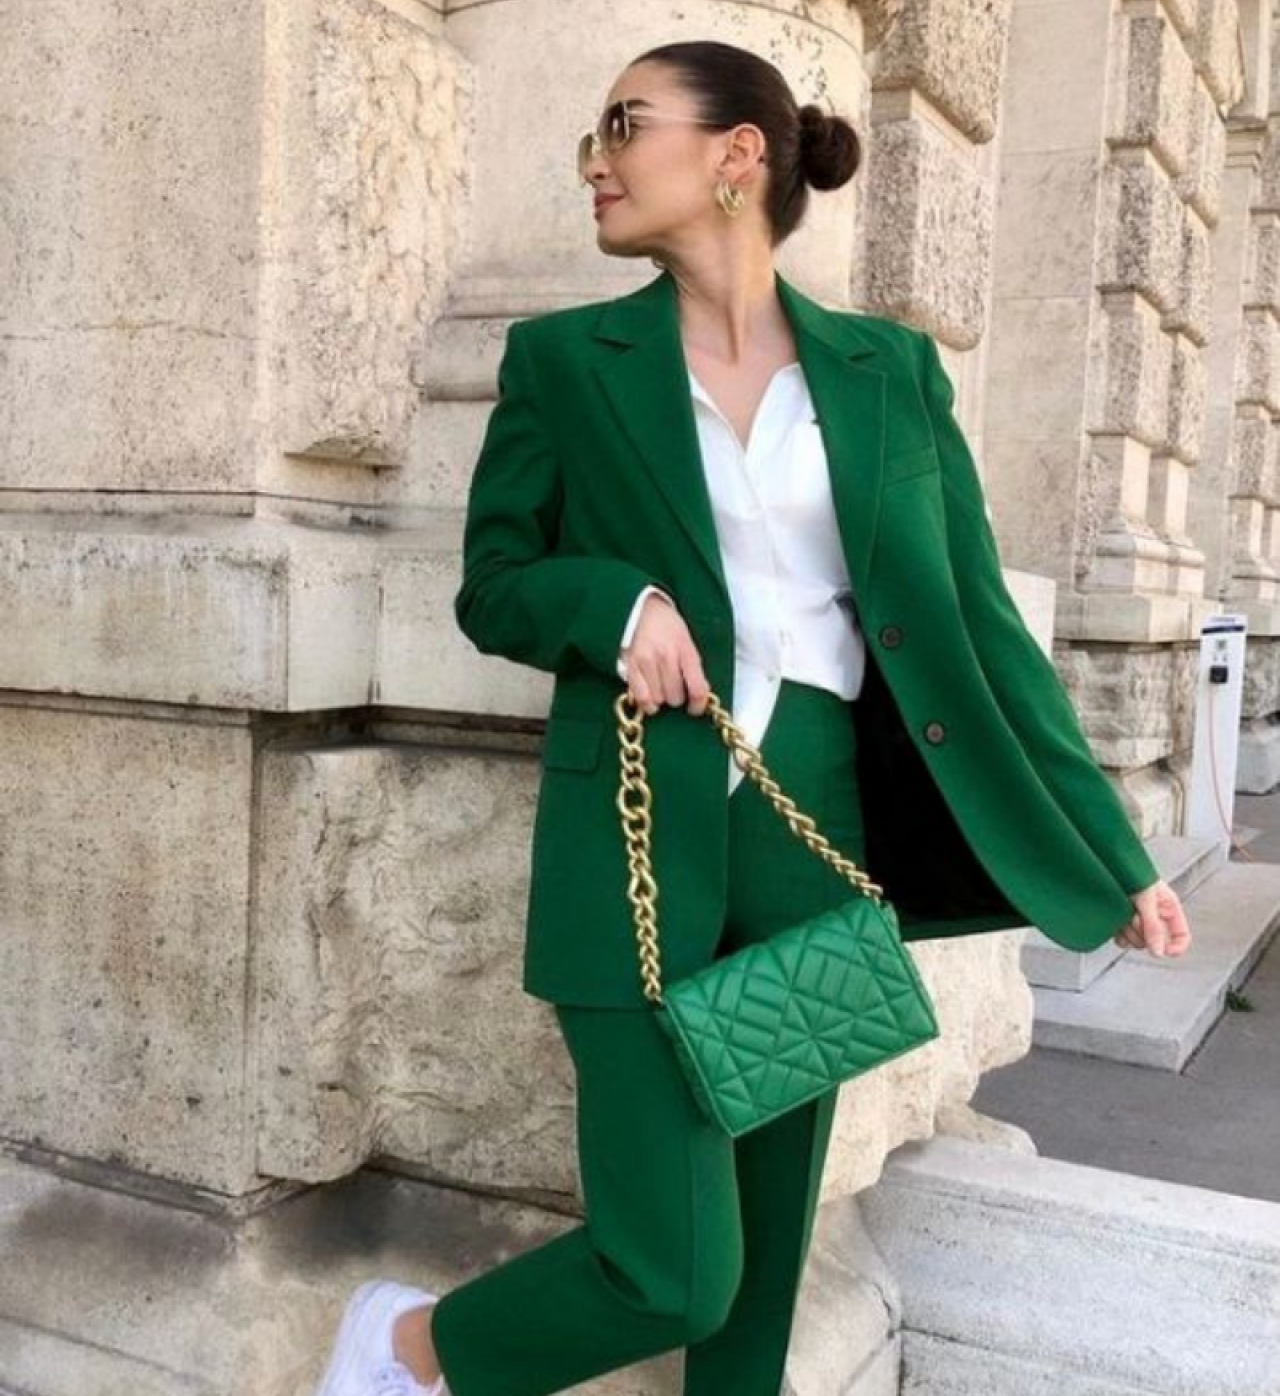
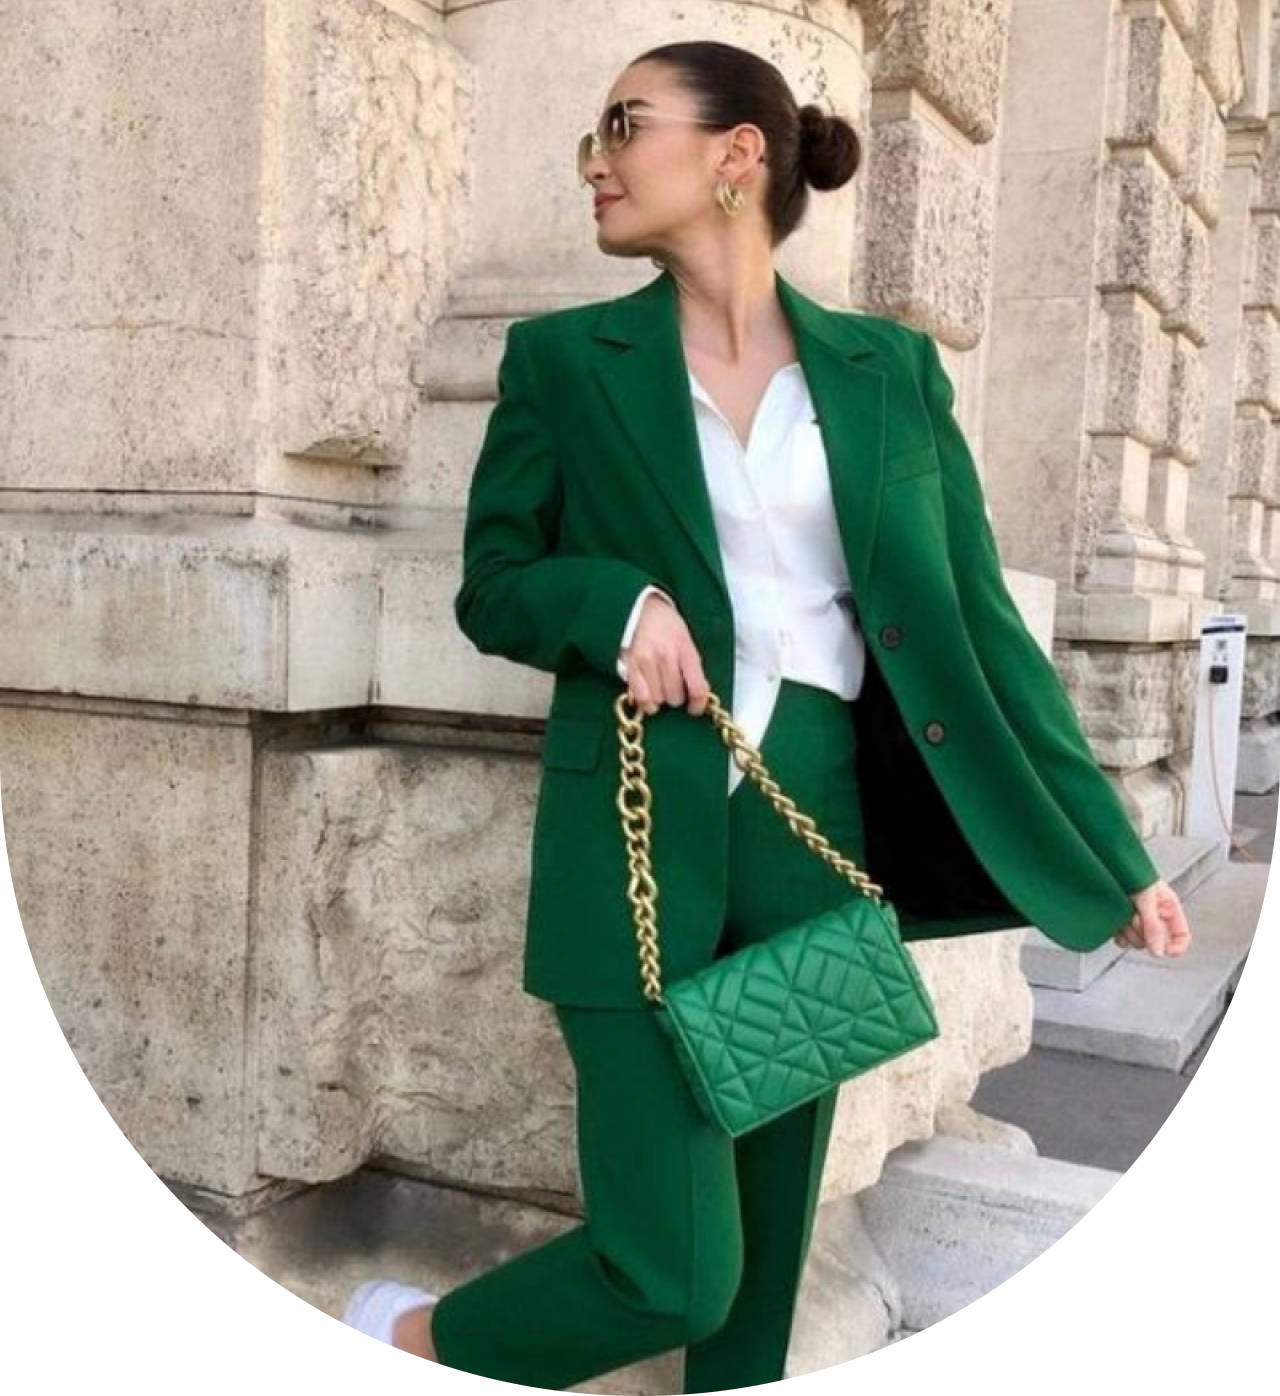
page ouverture

Changed region(s): [[0.5312, 0.5852, 1.0, 1.0], [0.0, 0.5852, 0.4688, 1.0]]

diff --git a/page-ouverture.css b/page-ouverture.css
@@ -1,8 +1,88 @@
 @import url('https://fonts.googleapis.com/css2?family=Prompt:wght@300;400&display=swap');
 
+/* STYLE BUTTON PRIMARY */
+
+.button {
+    display: flex;
+    border-radius: 40px;
+    padding: 3px 10px 3px 10px;
+    border-style: none;
+    background-color: var(--main-color);
+    color: var(--main-text-color);
+    width: fit-content;
+    padding-top: 5px;
+    padding-bottom: 5px;
+}
+
+.button:active {
+    background-color: var(--clicked-color);
+    color: var(--clicked-text-color);
+}
+
+/* STYLE BUTTON SECONDARY */
+
+.button2 {
+    display: flex;
+    border-radius: 40px;
+    padding: 3px 10px 3px 10px;
+    border-style: none;
+    background-color: var(--main-text-color);
+    color: var(--clicked-text-color);
+    width: fit-content;
+    padding-top: 5px;
+    padding-bottom: 5px;
+}
+
+.button2:active {
+    background-color: var(--clicked-color);
+    color: var(--clicked-text-color);
+}
+
+/* STYLE COLOR & TEXT */
+
+:root {
+    --main-color: #6333FF;
+    --clicked-color: #DCD3FB;
+    --main-text-color: #FFFFFF;
+    --clicked-text-color: #6333FF;
+    --second-text-color: #000000;
+    --coin-color: #392284;
+    --tag-color: #A4A4A4;
+    --tag2-color: #7C7C7C;
+    --add-tag-color: #EBEBEB;
+}
+
+.text-button {
+    font-size: 15px;
+    font-weight: 400;
+    line-height: 23px;
+}
+
+
 .dame{
     position: absolute;
-    border-radius: 50%;
     left: 0px;
     top: 0px;
+}
+
+.vivez{
+    position: absolute;
+    left: 24px;
+    top: 368px;
+}
+
+.decouverte{
+    position: absolute;
+    left: 87px;
+    top: 475px;
+}
+
+.recherche{
+    position: absolute;
+    left: 60px;
+    top: 514px;
+    display: flex;
+    flex-direction: column;
+    align-items: center;
+    gap: 3px;
 }

diff --git a/page-ouverture.html b/page-ouverture.html
@@ -8,7 +8,29 @@
     <link rel="stylesheet" href="page-ouverture.css">
 </head>
 <body>
-    <img class="dame" src="img/dameverte.png" width="320" height="422" />
+    <img class="dame" src="img/dameverte.png" width="320" height="349" />
+    
+    <img class="vivez" src="img/texteouverture.png" width="273" height="80" />
+
+    <button class="decouverte text-button button">
+        Découvrir le vert !
+     </button>
+      <!-- BUTTON SECONDARY -->
+    <button class="recherche text-button button2">
+        Faire ma propre recherche
+        <svg width="24" height="24" viewBox="0 0 24 24" fill="none" xmlns="http://www.w3.org/2000/svg">
+            <g clip-path="url(#clip0_473_5557)">
+            <path d="M24 0H0V24H24V0Z" fill="white" fill-opacity="0.01"/>
+            <path d="M12 21V3" stroke="#6333FF" stroke-width="1.5" stroke-linecap="round" stroke-linejoin="round"/>
+            <path d="M18 15L12 21L6 15" stroke="#6333FF" stroke-width="2" stroke-linecap="round" stroke-linejoin="round"/>
+            </g>
+            <defs>
+            <clipPath id="clip0_473_5557">
+            <rect width="24" height="24" fill="white"/>
+            </clipPath>
+            </defs>
+            </svg>            
+     </button>
     
 </body>
 </html>
